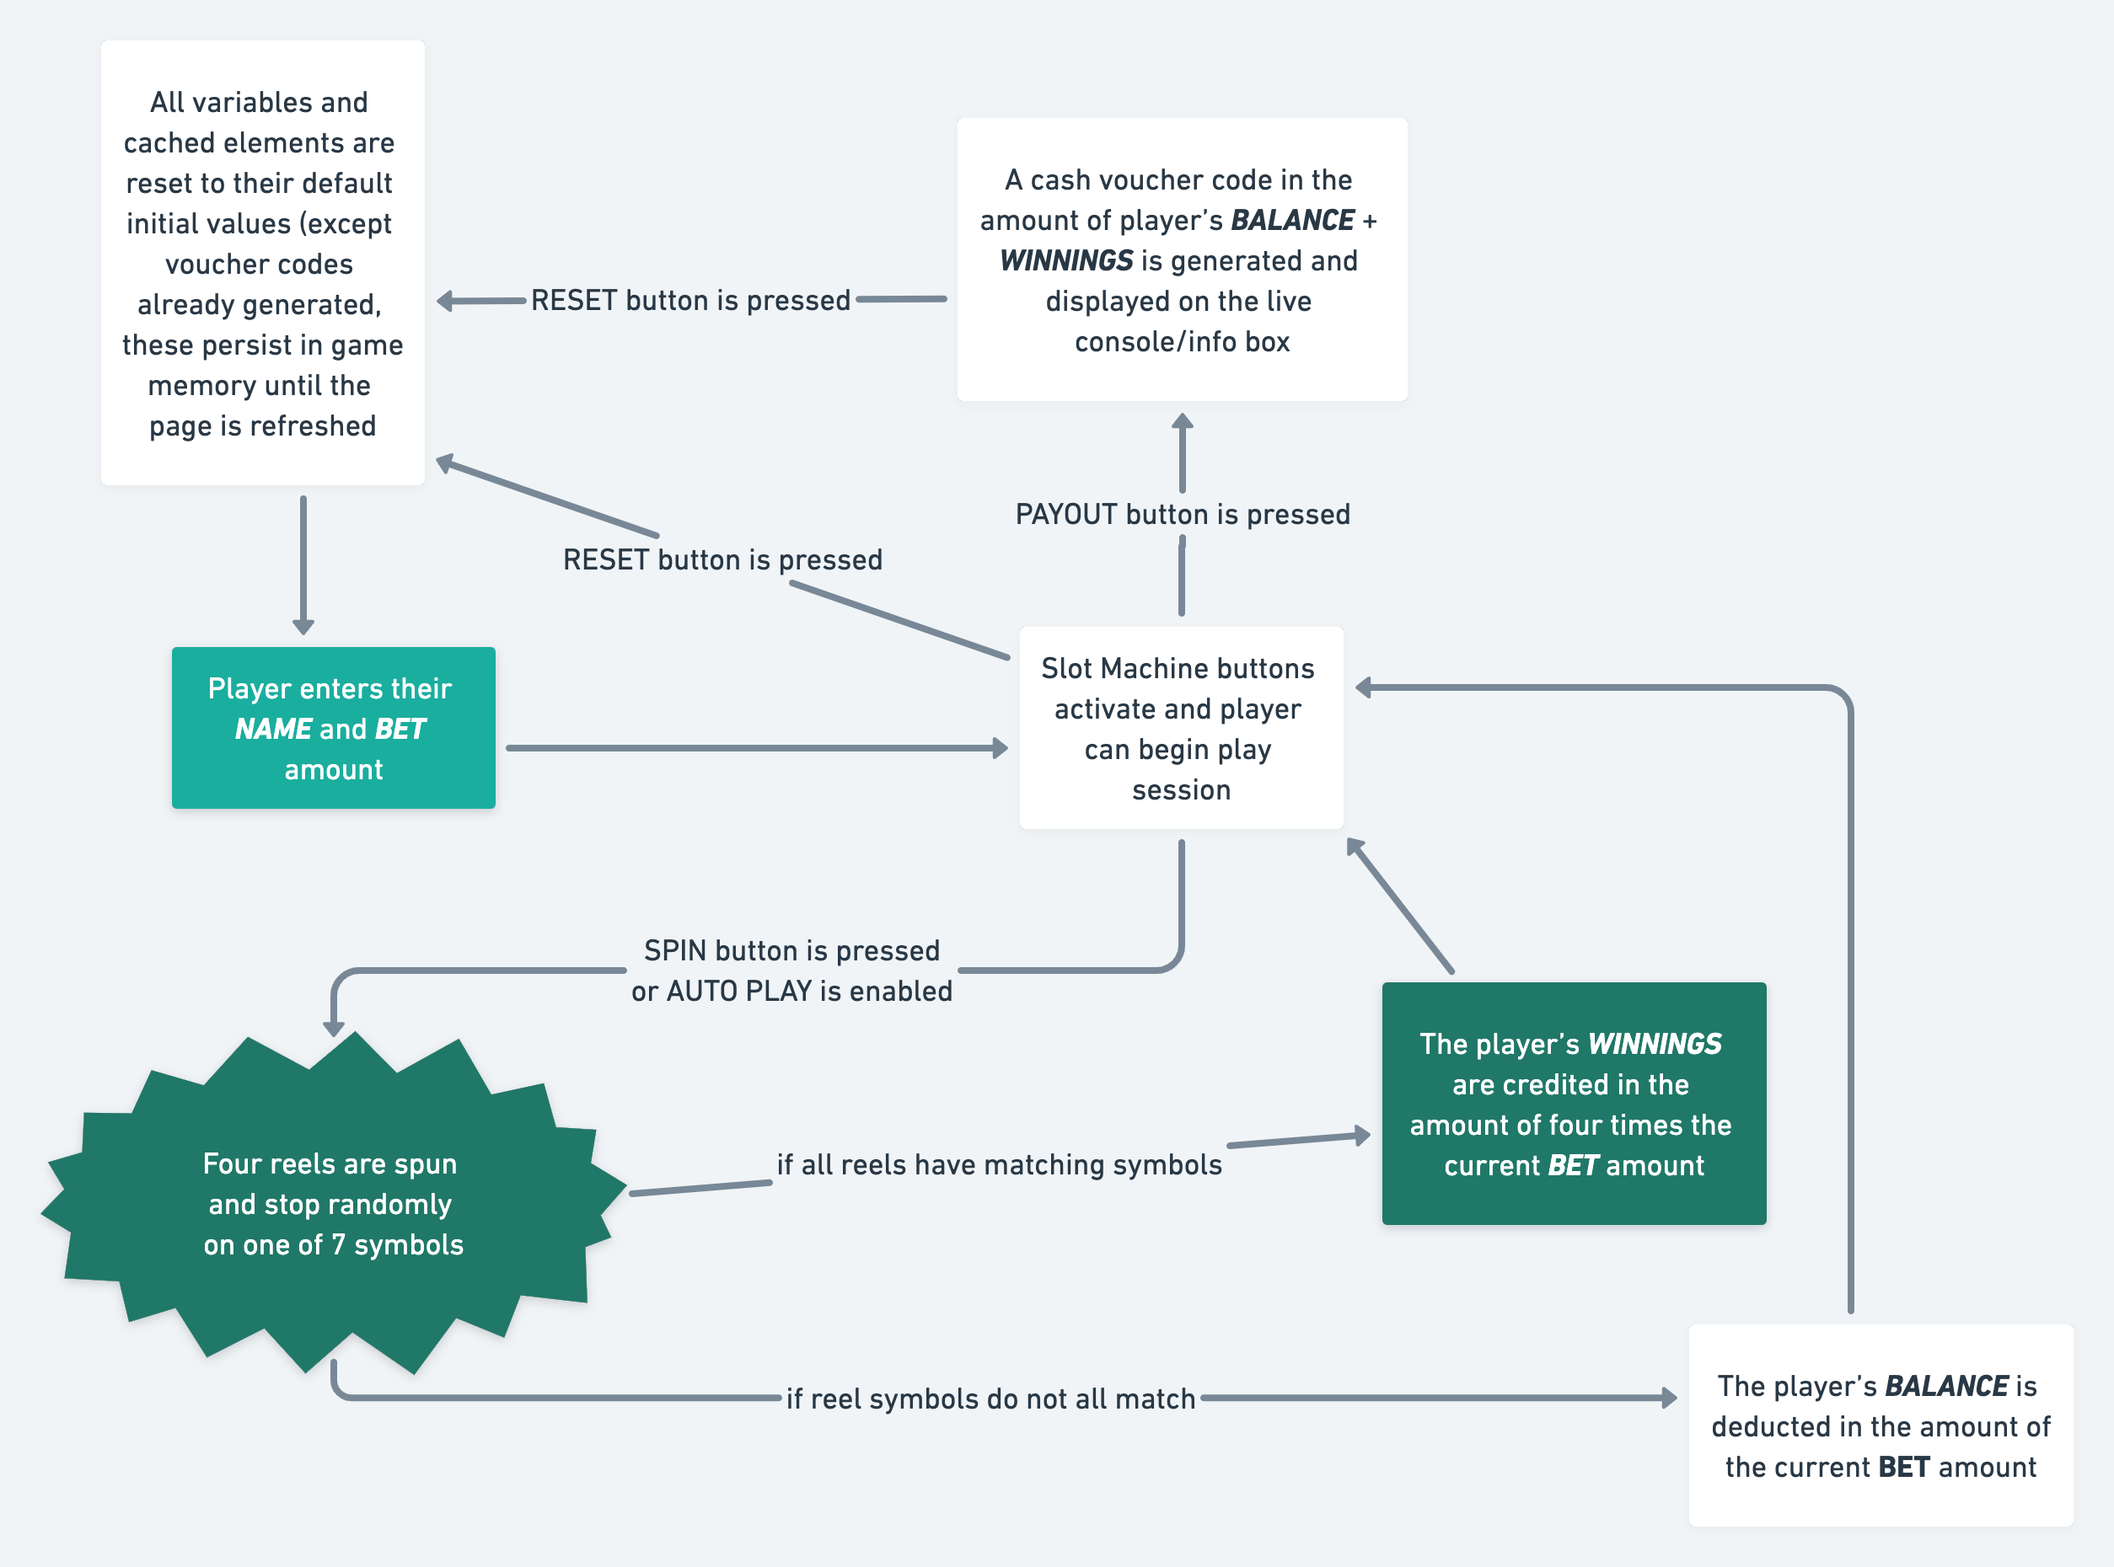
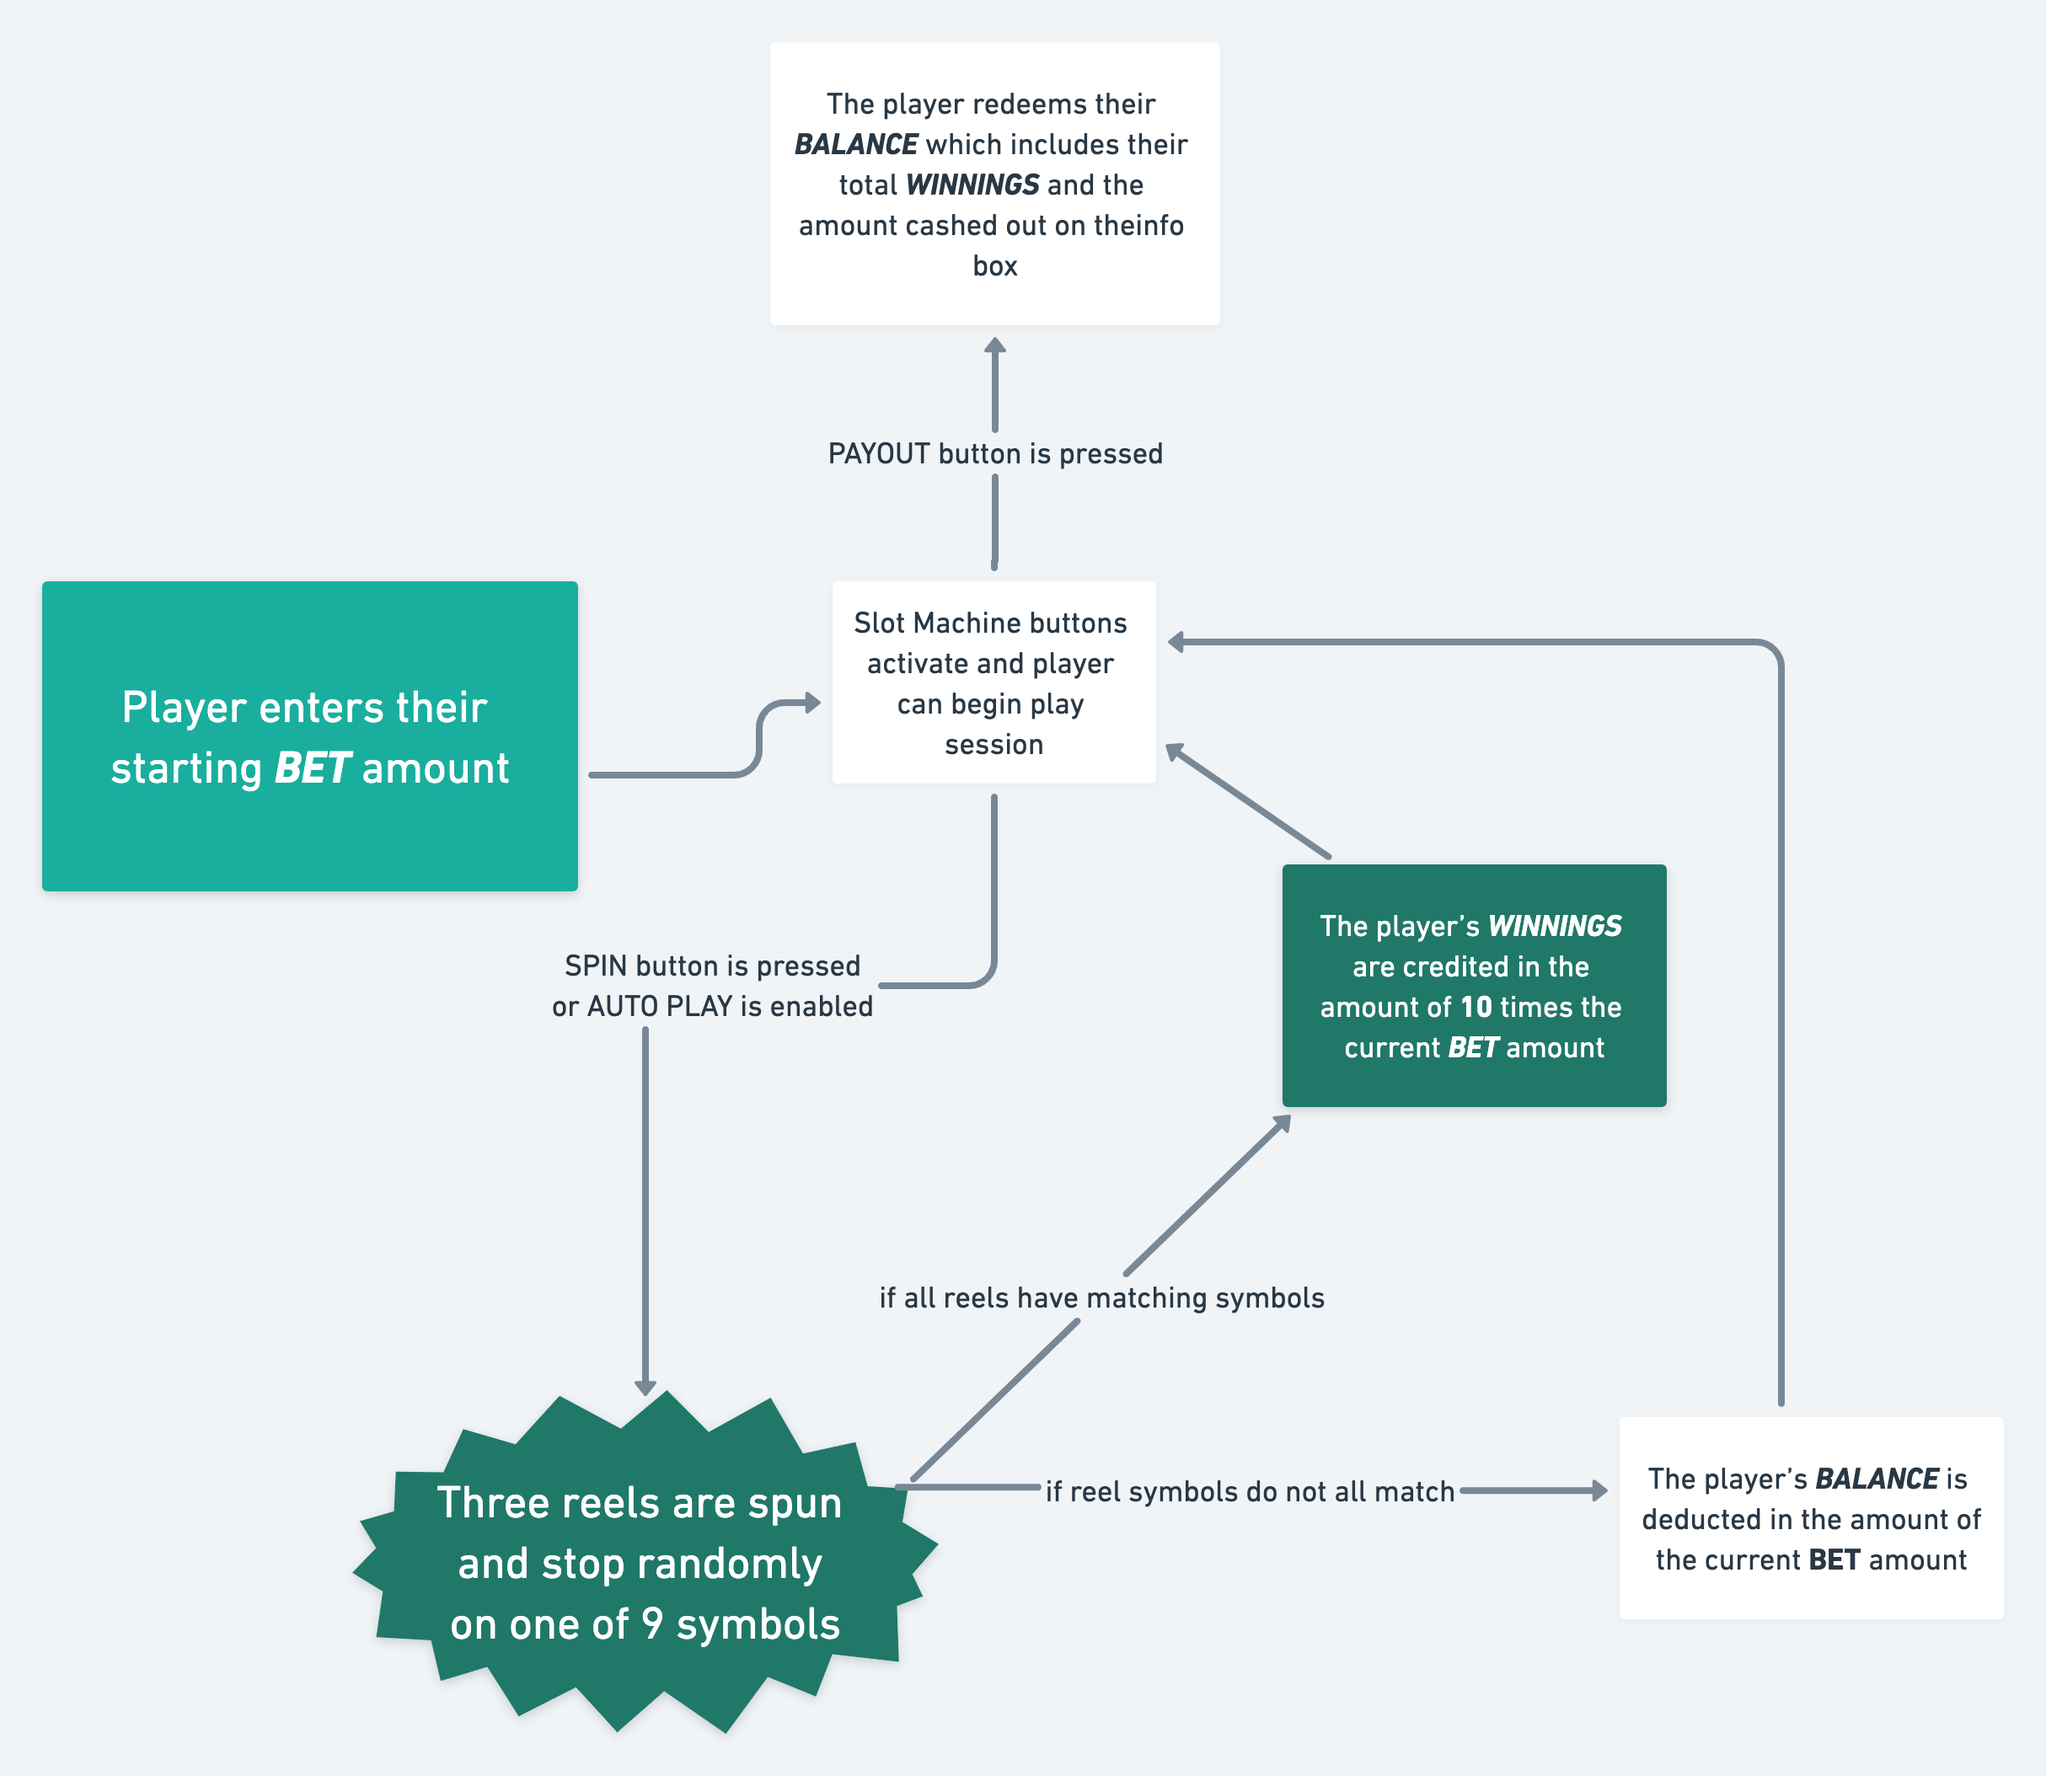
updated font size of user messages, updated README.md

diff --git a/css/main.css b/css/main.css
@@ -298,7 +298,7 @@ img#spinWheel {
     height: 100%;
     animation: fadeIn 0.5s ease-in-out forwards;
     display: block;
-    font-size: 50px;
+    font-size: 70px;
     color: white;
     font-family: 'Julee', cursive;
     text-align: center;

diff --git a/README.md b/README.md
@@ -73,7 +73,7 @@ There are several features planned to be implemented to the slot machine in the 
 [Link to view wireframe on Whimsical: https://whimsical.com/olu-s-slot-machine-YQNJ3geosQsdeWZVZGAAdx](https://whimsical.com/olu-s-slot-machine-YQNJ3geosQsdeWZVZGAAdx)
  
 ### Game Flow 
-<img src="https://hedonic.life/wp-content/uploads/2022/07/Slot-Machine-Game-Flow@2x.png" />
+<img src="https://hedonic.life/wp-content/uploads/2022/07/slot-machine-game-flow-2.png" />
 
 
 
